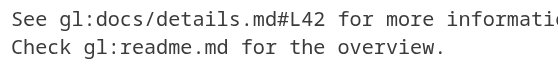
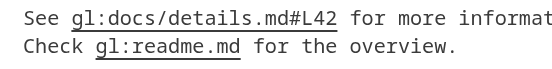
Fix extended autolinks in Markdown.

Changed region(s): [[0.0, 0.1231, 1.0, 0.4923], [0.0, 0.5231, 0.8315, 0.9231]]

diff --git a/CHANGELOG.md b/CHANGELOG.md
@@ -2,6 +2,10 @@
 
 All notable changes to the "gl-git-links" extension will be documented in this file.
 
+## [0.3.3]
+
+- Fix extended autolinks in Markdown.
+
 ## [0.3.2]
 
 - Use images in README.md that better showcase `gl:` link detection across various file types and programming languages.

diff --git a/README.md b/README.md
@@ -202,7 +202,7 @@ The extension:
 ```bash
 npm install -g @vscode/vsce
 vsce package
-code-insiders --install-extension gl-git-links-0.3.2.vsix
+code-insiders --install-extension gl-git-links-0.3.3.vsix
 ```
 
 ### From Marketplace
